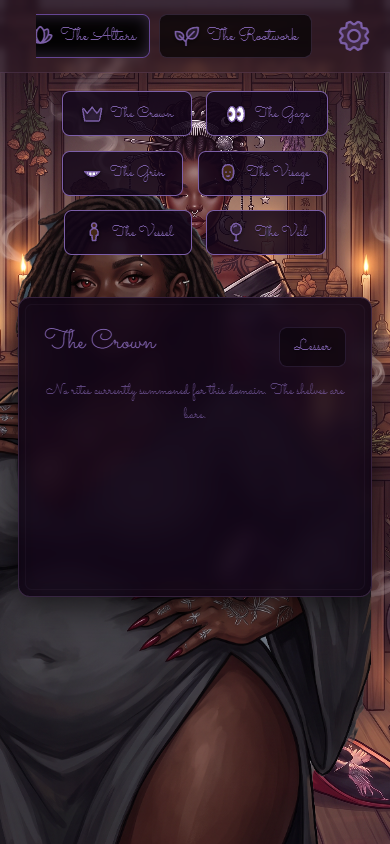
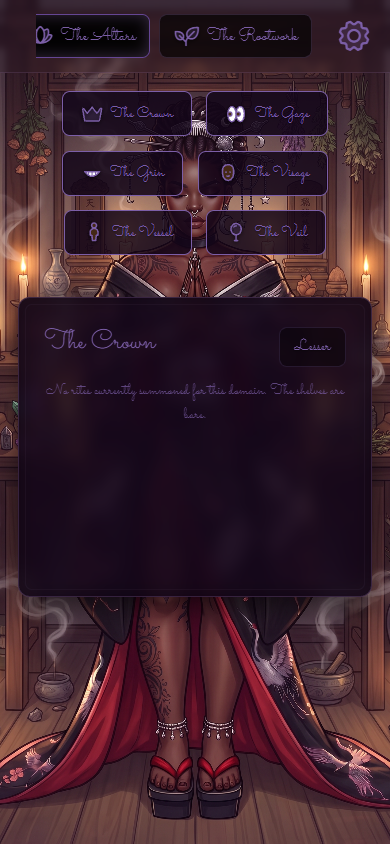
Remove old KeeperAvatar overlay obscuring the 9:16 background images

diff --git a/src/screens/Landing.jsx b/src/screens/Landing.jsx
@@ -48,23 +48,7 @@ export default function Landing({ onProceed, onOpenAvatar }) {
       {/* Background Overlay to ensure text readability */}
       <div style={{ position: 'absolute', top: 0, left: 0, right: 0, bottom: 0, backgroundColor: 'rgba(0,0,0,0.4)', zIndex: 1 }}></div>
 
-      {/* Avatar Dynamic Overlay */}
-      {hasProfile && avatarConfig && avatarConfig.avatarVibe && (
-        <div style={{ position: 'absolute', bottom: '5%', right: '10%', zIndex: 2, display: 'flex', alignItems: 'flex-end', gap: '1rem' }}>
-          <img 
-            src={`/assets/fam_${avatarConfig.familiar}.jpg`} 
-            alt="Familiar" 
-            style={{ width: '80px', height: '80px', objectFit: 'cover', borderRadius: '50%', border: '2px solid var(--plum)', boxShadow: '0 4px 15px rgba(0,0,0,0.8)', marginBottom: '20px' }} 
-            onError={(e) => { e.target.style.display = 'none'; }}
-          />
-          <img 
-            src={`/assets/avatar_${avatarConfig.avatarVibe}.jpg`} 
-            alt="Avatar" 
-            style={{ width: '200px', height: '300px', objectFit: 'cover', borderRadius: '8px', border: '2px solid var(--plum)', boxShadow: '0 4px 15px rgba(0,0,0,0.8)' }} 
-            onError={(e) => { e.target.style.display = 'none'; }}
-          />
-        </div>
-      )}
+      {/* Avatar Dynamic Overlay (Removed as the new 9:16 background natively embeds the avatar) */}
 
       {/* Main UI Container — no card box, text sits directly over the background */}
       <div style={{ position: 'relative', zIndex: 10, textAlign: 'center', padding: '1rem' }}>

diff --git a/src/App.jsx b/src/App.jsx
@@ -430,20 +430,7 @@ export default function App() {
               {renderActiveTabContent()}
             </div>
             
-            {/* The Static Composited Keeper Avatar */}
-            {(() => {
-              try {
-                const conf = JSON.parse(localStorage.getItem('avatar_config'));
-                if (conf && conf.layers) {
-                  return (
-                    <div style={{ position: 'fixed', bottom: '-2%', right: '5%', zIndex: 1, pointerEvents: 'none' }}>
-                      <KeeperAvatar config={conf} scale={1.8} />
-                    </div>
-                  );
-                }
-              } catch(e) {}
-              return null;
-            })()}
+            {/* The Static Composited Keeper Avatar (Removed as the new 9:16 backgrounds natively embed the avatar) */}
           </div>
         </div>
       )}
